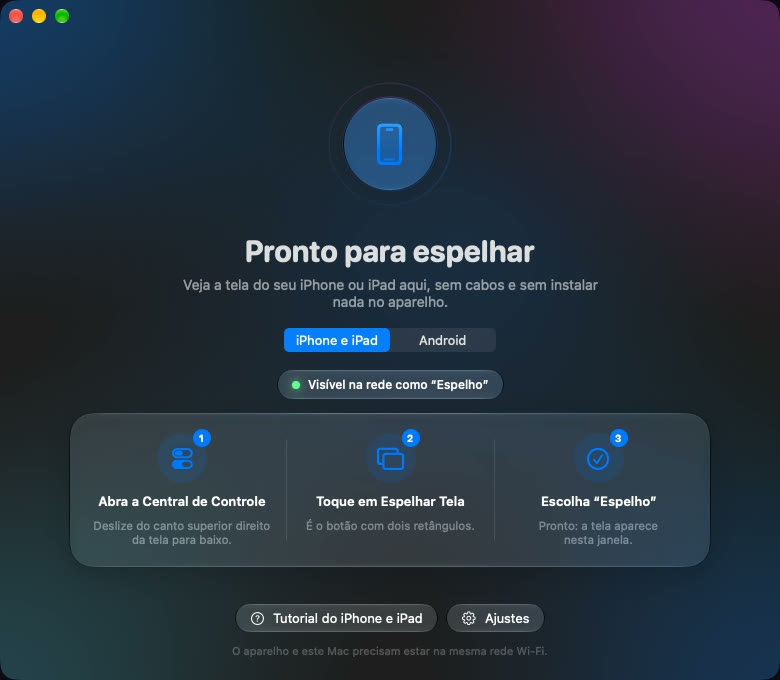
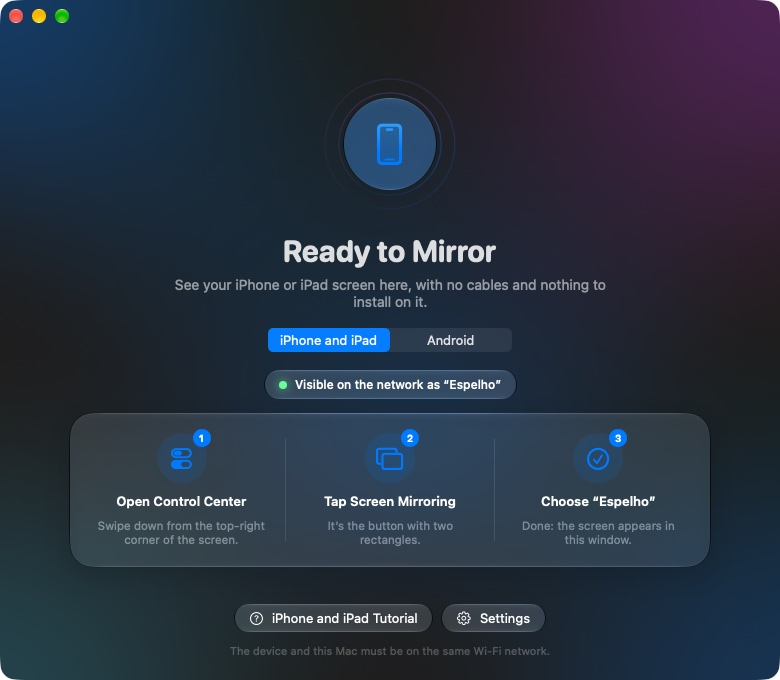
Espelho 1.3.0: English interface, English screenshots

diff --git a/espelho/strings.js b/espelho/strings.js
@@ -65,6 +65,7 @@ window.WITCH_STRINGS = Object.freeze({
   "iPhone e iPad com Espelhar Tela; Android 11 ou mais novo pelo Wi-Fi, ou qualquer Android pelo cabo": ["iPhone and iPad with Screen Mirroring; Android 11 or later over Wi‑Fi, or any Android by cable", "iPhone y iPad con Duplicar pantalla; Android 11 o posterior por Wi‑Fi, o cualquier Android por cable", "iPhone и iPad с «Повтором экрана»; Android 11 и новее по Wi‑Fi или любой Android по кабелю"],
   "Idioma": ["Language", "Idioma", "Язык"],
   "Português": ["Portuguese", "Portugués", "Португальский"],
+  "Inglês, português e espanhol, seguindo o idioma do Mac (dá para trocar nos Ajustes)": ["English, Portuguese and Spanish, following the Mac’s language (you can change it in Settings)", "Inglés, portugués y español, según el idioma del Mac (se puede cambiar en Ajustes)", "Английский, португальский и испанский — по языку Mac (можно сменить в настройках)"],
   "Aviso": ["Note", "Aviso", "Примечание"],
   "Usa o UxPlay (GPL-3.0) e o scrcpy (Apache 2.0). Não é afiliado à Apple nem ao Google.": ["Uses UxPlay (GPL-3.0) and scrcpy (Apache 2.0). Not affiliated with Apple or Google.", "Usa UxPlay (GPL-3.0) y scrcpy (Apache 2.0). No está afiliado a Apple ni a Google.", "Использует UxPlay (GPL-3.0) и scrcpy (Apache 2.0). Не связан с Apple или Google."],
   "Download iniciado": ["Download started", "Descarga iniciada", "Загрузка началась"],

diff --git a/espelho/index.html b/espelho/index.html
@@ -140,7 +140,7 @@
       <div><dt>Requer</dt><dd>macOS 26 Tahoe ou mais novo</dd></div>
       <div><dt>Processador</dt><dd>Apple Silicon</dd></div>
       <div><dt>Aparelhos</dt><dd>iPhone e iPad com Espelhar Tela; Android 11 ou mais novo pelo Wi-Fi, ou qualquer Android pelo cabo</dd></div>
-      <div><dt>Idioma</dt><dd>Português</dd></div>
+      <div><dt>Idioma</dt><dd>Inglês, português e espanhol, seguindo o idioma do Mac (dá para trocar nos Ajustes)</dd></div>
       <div><dt>Licença</dt><dd>GPL-3.0, código aberto</dd></div>
       <div><dt>Preço</dt><dd>Gratuito, sem anúncios e sem rastreamento</dd></div>
       <div><dt>Aviso</dt><dd>Usa o UxPlay (GPL-3.0) e o scrcpy (Apache 2.0). Não é afiliado à Apple nem ao Google.</dd></div>
@@ -201,7 +201,7 @@
 <script src="../install-command.js?v=202611071600"></script>
 <script src="../script.js?v=202611071700"></script>
 <script src="../i18n-strings.js?v=202611071700"></script>
-<script src="strings.js?v=202610271200"></script>
+<script src="strings.js?v=202611080100"></script>
 <script src="page.js?v=202610271200"></script>
 <script src="../i18n.js?v=202610271200"></script>
 <script src="../effects.js?v=202611061900"></script>

diff --git a/apps.js b/apps.js
@@ -17,6 +17,6 @@ window.WITCH_APPS = Object.freeze({
   animelocalizationstudio: Object.freeze({ repo: 'anime-localization-studio', tag: 'v0.29.0', file: 'AnimeLocalizationStudio-0.29.0.dmg', published: true, app: 'Anime Localization Studio.app' }),
   wormlink:     Object.freeze({ repo: 'Wormlink',      tag: 'v0.2.2',        file: 'Wormlink-0.2.2.dmg',     published: true, app: 'Wormlink.app' }),
   bunnygrid:    Object.freeze({ repo: 'BunnyGrid',     tag: 'v0.2.2',        file: 'BunnyGrid-0.2.2.dmg',    published: true, app: 'BunnyGrid.app' }),
-  espelho:      Object.freeze({ repo: 'espelho',       tag: 'v1.2.0',        file: 'Espelho-1.2.0.dmg',      published: true, app: 'Espelho.app' }),
+  espelho:      Object.freeze({ repo: 'espelho',       tag: 'v1.3.0',        file: 'Espelho-1.3.0.dmg',      published: true, app: 'Espelho.app' }),
   excaliburforms: Object.freeze({ repo: 'ExcaliburForms', tag: 'v1.0.0',     file: 'ExcaliburForms-1.0.0.dmg', published: true, app: 'ExcaliburForms.app' }),
 });
